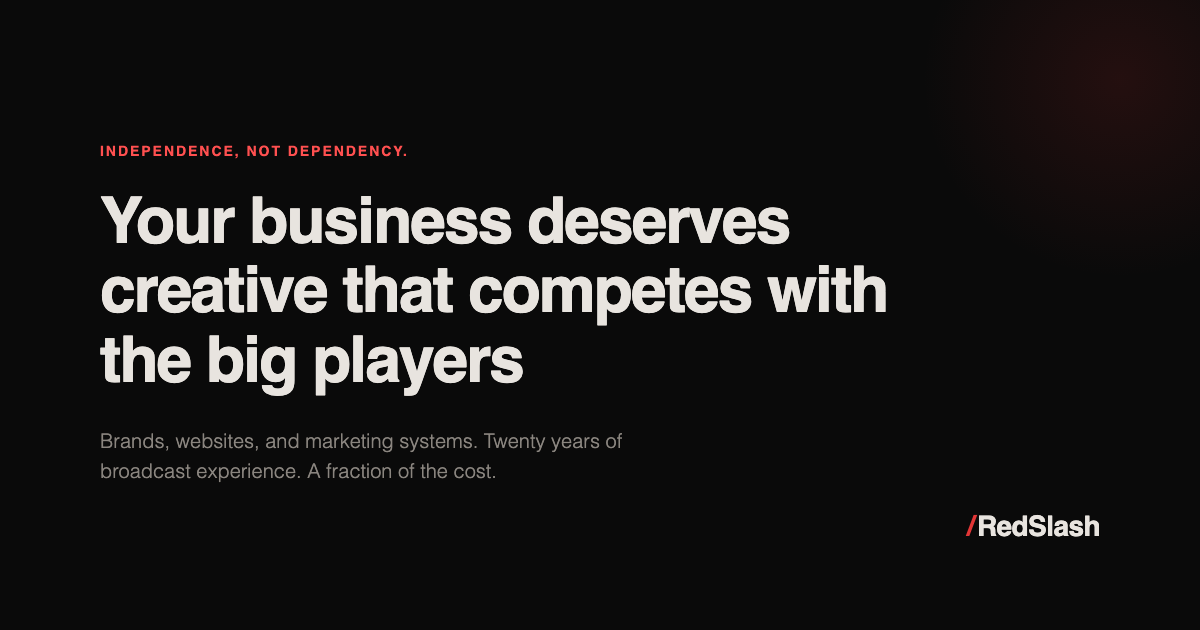
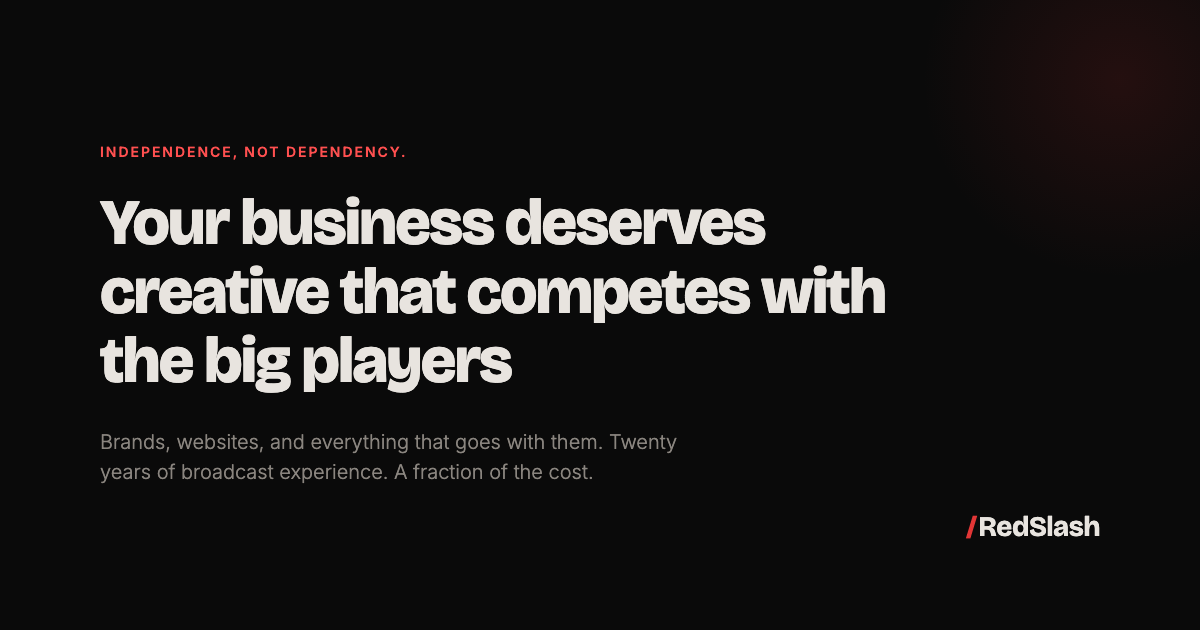
Update OG image and meta descriptions to match homepage copy

diff --git a/index.html b/index.html
@@ -4,7 +4,7 @@
     <meta charset="UTF-8">
     <meta name="viewport" content="width=device-width, initial-scale=1.0">
     <title>RedSlashStudio</title>
-    <meta name="description" content="Broadcast-quality brands, websites, and marketing systems for ambitious businesses. Twenty years of broadcast experience. A fraction of the agency cost.">
+    <meta name="description" content="Broadcast-quality brands, websites, and everything that goes with them — for ambitious businesses. Twenty years of broadcast experience. A fraction of the agency cost.">
     <meta name="theme-color" content="#0A0A0A">
     <link rel="icon" type="image/png" href="assets/favicon.png">
     <link rel="apple-touch-icon" href="assets/apple-touch-icon.png">
@@ -12,7 +12,7 @@
     <!-- Open Graph -->
     <meta property="og:type" content="website">
     <meta property="og:title" content="/RedSlash Studio">
-    <meta property="og:description" content="Broadcast-quality brands, websites, and marketing systems for ambitious businesses. Twenty years of broadcast experience. A fraction of the agency cost.">
+    <meta property="og:description" content="Broadcast-quality brands, websites, and everything that goes with them — for ambitious businesses. Twenty years of broadcast experience. A fraction of the agency cost.">
     <meta property="og:image" content="https://redslashstudio.com/assets/og-image.png">
     <meta property="og:url" content="https://redslashstudio.com">
 
